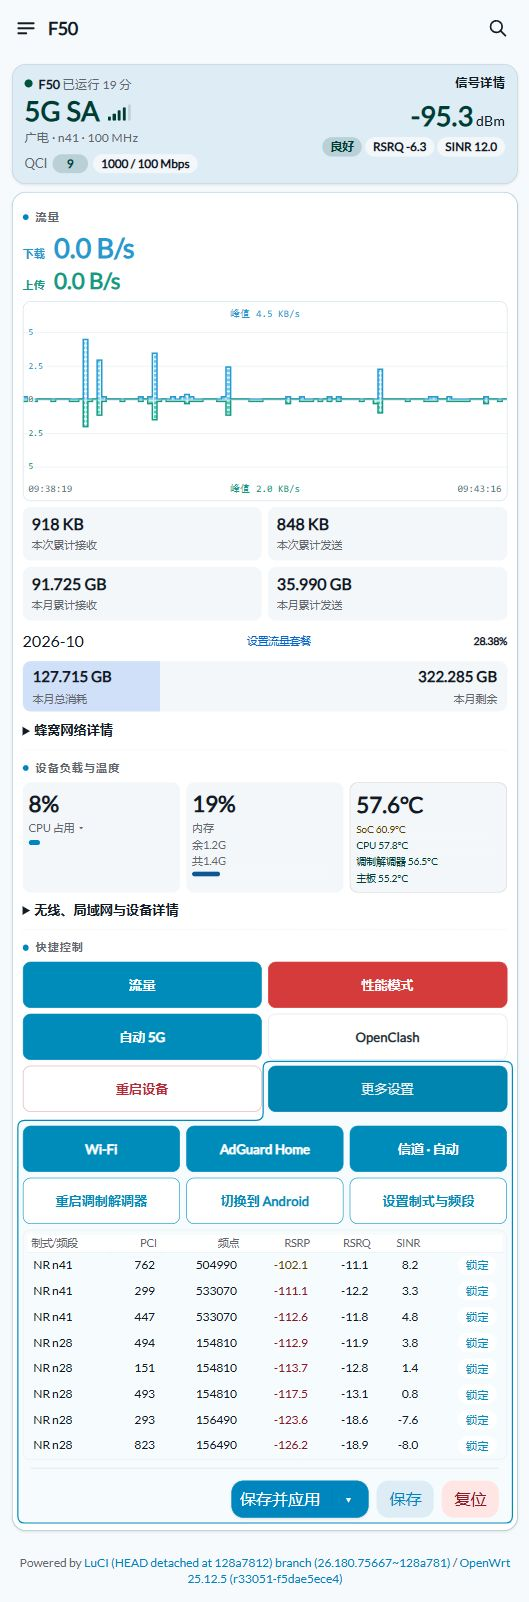
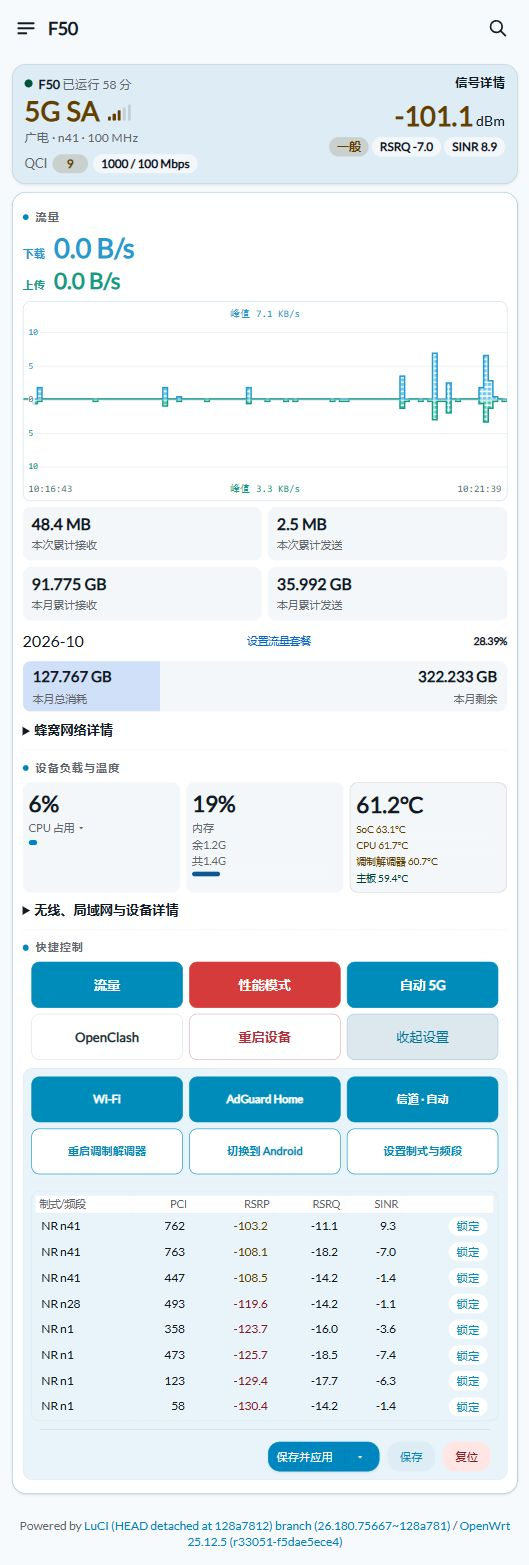
Update dashboard controls, expanded panel and screenshots

diff --git a/extras/dashboard/home.js b/extras/dashboard/home.js
@@ -122,7 +122,6 @@ return view.extend({
 		clearTimeout(this._refreshTimer);
         if(this._adguardDispose)this._adguardDispose();
         if(this._actionsObserver)this._actionsObserver.disconnect();
-        if(this._frameObserver)this._frameObserver.disconnect();
 		if (this._channelDispose) this._channelDispose();
 		if (this._quotaDispose) this._quotaDispose();
 		if (this._openclashDispose) this._openclashDispose();
@@ -361,16 +360,7 @@ return view.extend({
   var other=E('div',{id:'f50-other-controls',class:'mud-ctl f50-other-controls',hidden:true});quick.appendChild(other);
   ['wifi','adguard','channel','modem','android'].forEach(function(id){other.appendChild(root.querySelector('#mud-btn-'+id));});android.remove();
   var otherBtn=root.querySelector('#mud-btn-other');otherBtn.setAttribute('aria-controls','f50-other-controls');
-  otherBtn.onclick=function(){other.hidden=!other.hidden;otherBtn.setAttribute('aria-expanded',String(!other.hidden));root.classList.toggle('f50-more-open',!other.hidden);drawMoreFrame();};
-  quick.classList.add('f50-controls-section');
-  var frame=E('div',{class:'f50-more-frame','aria-hidden':'true',hidden:true});
-  frame.innerHTML='<svg><path fill="rgba(0,140,186,.035)" stroke="#008cba" stroke-width="1.2" vector-effect="non-scaling-stroke"/></svg>';quick.appendChild(frame);
-  function drawMoreFrame(){frame.hidden=other.hidden;if(other.hidden)return;var base=quick.getBoundingClientRect(),b=otherBtn.getBoundingClientRect(),a=other.getBoundingClientRect(),r=7;
-   var l=a.left-base.left-5,right=a.right-base.left+5,top=b.top-base.top-5,bottom=a.bottom-base.top+5,step=a.top-base.top-6,x=b.left-base.left-5;
-   var d='M '+(x+r)+' '+top+' H '+(right-r)+' Q '+right+' '+top+' '+right+' '+(top+r)+' V '+(bottom-r)+' Q '+right+' '+bottom+' '+(right-r)+' '+bottom+' H '+(l+r)+' Q '+l+' '+bottom+' '+l+' '+(bottom-r)+' V '+(step+r)+' Q '+l+' '+step+' '+(l+r)+' '+step+' H '+(x-r)+' Q '+x+' '+step+' '+x+' '+(step-r)+' V '+(top+r)+' Q '+x+' '+top+' '+(x+r)+' '+top+' Z';
-   frame.querySelector('path').setAttribute('d',d);
-  }
-  this._frameObserver=new ResizeObserver(drawMoreFrame);this._frameObserver.observe(quick);this._frameObserver.observe(other);
+  otherBtn.onclick=function(){other.hidden=!other.hidden;otherBtn.setAttribute('aria-expanded',String(!other.hidden));otherBtn.textContent=other.hidden?'更多设置':'收起设置';};
   var lockTable=locks.querySelector('.mud-scroll');locks.querySelector('h3').remove();
   other.appendChild(E('a',{class:'mud-btn',id:'mud-btn-rat-settings',href:L.url('admin','modem','locks')},'设置制式与频段'));
   var lockContent=E('div',{id:'f50-lock-details',hidden:true},[lockTable]);
@@ -468,17 +458,19 @@ return view.extend({
    .f50-home #mud-btn-other[aria-expanded=true],.f50-home #f50-other-controls>.mud-btn.on,.f50-home #f50-other-controls>.mud-btn[aria-pressed=true],.f50-home #f50-other-controls>.mud-btn[aria-expanded=true],.f50-home #f50-other-controls .mud-lockbtn.locked{background:#008cba!important;border-color:#008cba!important;color:#fff!important}
    .f50-home #mud-btn-other{font-weight:650!important;position:relative;box-shadow:none!important}
    .f50-home .f50-primary-controls>.mud-btn{font-size:.82rem!important;font-weight:600!important}
-   .f50-home #f50-other-controls>.mud-btn{font-size:.82rem!important;font-weight:600!important}
+   .f50-home .mud-ctl.f50-primary-controls{padding:0 8px;border-left:1px solid transparent;border-right:1px solid transparent;box-sizing:border-box}
+   .f50-home #f50-other-controls>.mud-btn{font-size:var(--f50-rate-label-size,.7rem)!important;font-weight:600!important}
    .f50-home #mud-btn-other{font-size:.82rem!important}
+   .f50-home #mud-btn-other[aria-expanded=true]{background:#e8f4fa!important;border-color:#abd3e3!important;color:#00799f!important}
    .f50-home #f50-lock-details table td{font-size:calc(.8rem - 1px)!important}
    .f50-home #f50-lock-details table th{font-size:calc(.72rem - 1px)!important}
+   .f50-home #f50-lock-details table th:nth-child(3),.f50-home #mud-neigh tr>td:nth-child(3){display:none}
+   .f50-home #f50-lock-details .cbi-page-actions,.f50-home #f50-lock-details .cbi-page-actions *{font-size:var(--f50-rate-label-size,.7rem)!important}
    .f50-home #f50-other-controls #mud-neigh .mud-lockbtn{font-size:calc(.78rem - 1px)!important}
    .f50-home #mud-btn-other:after,.f50-home #f50-other-controls:before,.f50-home #f50-other-controls:after{display:none!important;content:none!important}
-   .f50-home #f50-other-controls{padding:0;border:0;border-radius:0;margin-top:14px;background:transparent;overflow:visible}
-   .f50-home .f50-controls-section{position:relative;isolation:isolate}
-   .f50-home .f50-more-frame{position:absolute;inset:0;pointer-events:none;z-index:-1;overflow:visible}
-   .f50-home .f50-more-frame svg{position:absolute;inset:0;width:100%;height:100%;overflow:visible}
-   @media(max-width:600px){.f50-home .mud-ctl.f50-primary-controls{grid-template-columns:repeat(2,minmax(0,1fr))!important}.f50-home #f50-other-controls{grid-template-columns:repeat(3,minmax(0,1fr))!important}}
+   .f50-home #f50-other-controls{padding:8px;border:1px solid #e0e6eb;border-radius:10px;margin-top:8px;background:#e8f4fa;overflow:visible;box-sizing:border-box}
+   .f50-home #f50-lock-details{border-top:1px solid #e8edf1;margin-top:2px;padding-top:8px;min-width:0}
+   @media(max-width:600px){.f50-home .mud-ctl.f50-primary-controls{grid-template-columns:repeat(3,minmax(0,1fr))!important}.f50-home #f50-other-controls{grid-template-columns:repeat(3,minmax(0,1fr))!important}}
    .f50-home #mud-btn-other:hover,.f50-home #f50-other-controls .mud-btn:hover{filter:brightness(.95)}
    .f50-home #mud-btn-power{white-space:normal;overflow-wrap:anywhere;line-height:1.25}
    .f50-home #mud-btn-power[data-mode=performance]{background:#d63b3b;border-color:#d63b3b;color:#fff}
